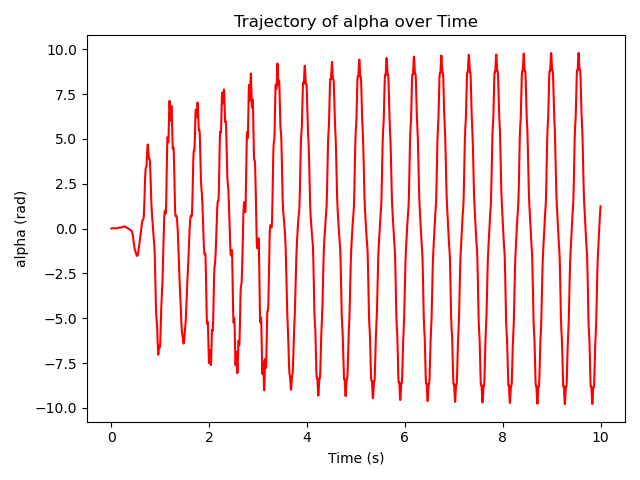
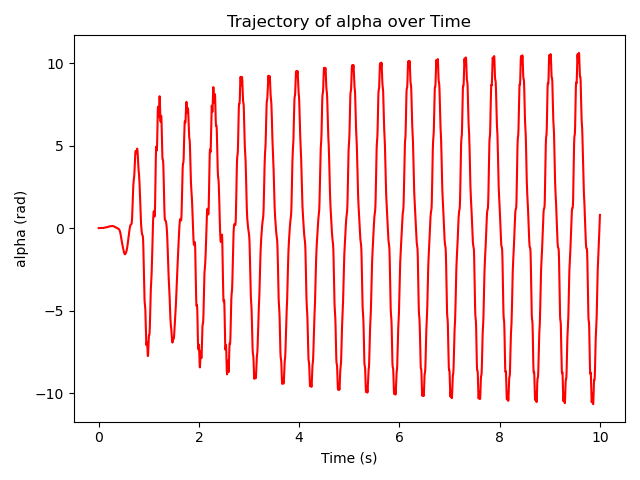
Calculation are ready to be launshed

diff --git a/passive_control_autodif.py b/passive_control_autodif.py
@@ -5,7 +5,8 @@ from rk4 import rk4
 from model import Model
 import matplotlib.pyplot as plt
 import numpy as np
-from torch.optim import Adam
+import multiprocessing
+from torch.optim import Adam,SGD,RMSprop
 from dmd import dmd_torch
 # from torchviz import make_dot   
 
@@ -28,17 +29,16 @@ class PassiveControlAutodif(nn.Module):
         W[0] = 0.5
         W[-1] = 0.5
         return W
-    def objective_function(self):
+    def objective_function(self,targeted_frequency :float =None):
         traj = rk4(self.model.ODE, self.model.t_span[0], self.X0, self.model.dt_computation, int((self.model.t_span[1] - self.model.t_span[0]) / self.model.dt_computation))
         
-        print(traj[0])
         h= torch.stack([y[3] for t, y in traj])  # Extract height from trajectory
         alpha = torch.stack([y[4] for t, y in traj])  # Extract alpha from trajectory
         beta = torch.stack([y[5] for t, y in traj])  # Extract beta from trajectory
         h_dot = torch.stack([y[0] for t, y in traj])  # Extract h_dot from trajectory
         alpha_dot = torch.stack([y[1] for t, y in traj])  # Extract alpha_dot from trajectory
         beta_dot = torch.stack([y[2] for t, y in traj])  # Extract beta_dot from trajectory
-        print(f"Height: {h}, Alpha: {alpha}, Beta: {beta}")
+        # print(f"Height: {h}, Alpha: {alpha}, Beta: {beta}")
         energy_integrand = self.compute_energy(
             h=h,
             alpha=alpha,
@@ -48,18 +48,18 @@ class PassiveControlAutodif(nn.Module):
             beta_dot=beta_dot   # Extract beta_dot from trajectory
         )
         ff_transform=torch.fft.rfft(h,n=len(h))
-        print(f"FFT Transform: {ff_transform}")
-        h_reconstructed = torch.fft.irfft(ff_transform, n=len(h)).real
+        # print(f"FFT Transform: {ff_transform}")
+        #h_reconstructed = torch.fft.irfft(ff_transform, n=len(h)).real
         
         amplitudes= torch.abs(ff_transform)/len(h)*2
         fe=1/model.dt_computation
-        frequencies = fe/2*torch.linspace(0,1,len(ff_transform))
+        frequencies  = torch.fft.rfftfreq(len(h), d=model.dt_computation)
+        mask = (frequencies >= targeted_frequency/2) & (frequencies <= targeted_frequency*2)
         
+        frequency_overlap=torch.trapz(amplitudes[mask], frequencies[mask])/ torch.trapz(amplitudes, frequencies)
         
-        max_amplitude = torch.max(amplitudes)
-        max_frequency = frequencies[torch.argmax(amplitudes)]
-        print(f"Max Amplitude: {max_amplitude}, Max Frequency: {max_frequency}")
-        print(f"natural frequency {np.sqrt(model.kh/model.m)/2/np.pi}")
+        # print(f"Max Amplitude: {max_amplitude}, Max Frequency: {max_frequency}")
+        # print(f"natural frequency {np.sqrt(model.kh/model.m)/2/np.pi}")
         
         
         # plt.figure(figsize=(4, 3),tight_layout=True)
@@ -73,8 +73,8 @@ class PassiveControlAutodif(nn.Module):
         # print(max(h),min(h))
         
         
-        print(f"FFT {ff_transform}")
-        print(f"size FFT {ff_transform.shape}")
+        # print(f"FFT {ff_transform}")
+        # print(f"size FFT {ff_transform.shape}")
         # plt.figure(figsize=(4, 3),tight_layout=True)
         # plt.plot(h.detach().numpy(), label='Original h', color='blue')
         # plt.plot(h_reconstructed.detach().numpy(), label='Reconstructed h', color='orange', linestyle='--')
@@ -88,31 +88,79 @@ class PassiveControlAutodif(nn.Module):
         if False:
             W= self.make_trapz_integrator(len(energy_integrand))
             energy=torch.matmul(W.reshape(1,-1), energy_integrand.reshape(-1,1)).squeeze()* self.model.dt_computation 
-        return max_amplitude,traj
+        return frequency_overlap,traj 
 
 if __name__=='__main__':
     config_env='config_env.yaml'
     model = Model(config_env)
     passive_control = PassiveControlAutodif(model)
     
-    # Example usage
-    Kbeta = torch.tensor(0.1, requires_grad=True)
-    Dbeta = torch.tensor(0.0, requires_grad=False)
-    xh = torch.tensor(0.5*0.15, requires_grad=True)
+
     
     
     
-    passive_control.update_matrices_with_control_parameters(Kbeta, Dbeta, xh)
+    targeted_frequency = np.sqrt(model.kh/model.m)/2/np.pi*0.5  # Targeted frequency in Hz
     
-    # Compute the objective function
-    max_amplitude,traj = passive_control.objective_function()
+    K_beta_min=0.01
+    K_meta_max=model.kalpha
     
-    loss = max_amplitude
-    print(f"Computed energy: {loss.item()}")
-    # Perform backpropagation
-    loss.backward()
-    print(f"Gradient Kbeta: {Kbeta.grad.item()}")
-    print(f"Gradient xh: {xh.grad.item()}")
+    xh_min=model.xf
+    xh_max=model.c
+    
+    # Generate a list of parameter combinations for Kbeta and xh
+    Kbeta_values = Kbeta_values = K_beta_min + (K_meta_max - K_beta_min) * torch.rand(10)
+    xh_values =  xh_min + (xh_max - xh_max) * torch.rand(10)
+    X_ini = [(Kbeta.item(), xh.item()) for Kbeta in Kbeta_values for xh in xh_values]
+    print(len(X_ini))
+    
+    data_save=np.zeros((len(X_ini), 3,1000))  # Initialize data_save to store results
+    j=0
+    if True:
+        
+        for Kbeta, xh in X_ini:
+            print(f"Initial Kbeta: {Kbeta}, xh: {xh}")
+            
+            
+            
+            
+            Kbeta = torch.tensor(Kbeta, requires_grad=True)
+            Dbeta = torch.tensor(Kbeta/1000, requires_grad=False)
+            xh = torch.tensor(xh, requires_grad=True)
+            optimizer = RMSprop([Kbeta, xh], lr=0.01)
+            for epoch in range(10000):
+                optimizer.zero_grad()
+        
+    
+    
+    
+                passive_control.update_matrices_with_control_parameters(Kbeta, Dbeta, xh)
+    
+                # Compute the objective function
+                max_amplitude,traj = passive_control.objective_function(targeted_frequency=targeted_frequency)
+    
+                loss = -max_amplitude
+                # Perform backpropagation
+                loss.backward()
+                if epoch == 0:
+                    first_grad_abs_K = Kbeta.grad.abs().item()
+                    first_grad_abs_xh = xh.grad.abs().item()
+    
+            # Clip all gradients to be within [-first_grad_abs, first_grad_abs]
+                with torch.no_grad():
+                    Kbeta.grad.clamp_(-first_grad_abs_K, first_grad_abs_K)
+                    xh.grad.clamp_(-first_grad_abs_xh, first_grad_abs_xh)
+                optimizer.step()
+                with torch.no_grad():
+                    Kbeta.clamp_(min=0.001, max=model.kalpha)
+                    xh.clamp_(min=model.xf, max=model.c)
+                print(f'Epoch {epoch+1}, Max amplitudes: {loss.item()}, Kbeta: {Kbeta.item()}, xh: {xh.item()}')
+                
+                data_save[j, 0, epoch] = Kbeta.detach().numpy()
+                data_save[j, 1, epoch] = xh.detach().numpy()
+                data_save[j, 2, epoch] = loss.item()
+            np.save('data_save.npy', data_save)
+        j+=1
+        #print(f"Gradients: Kbeta: {Kbeta.grad.item()}, xh: {xh.grad.item()}")
     
     
     
